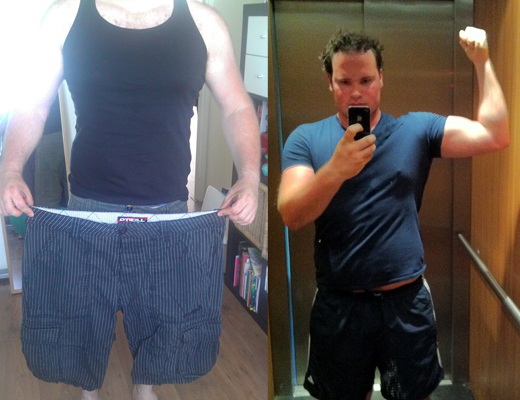
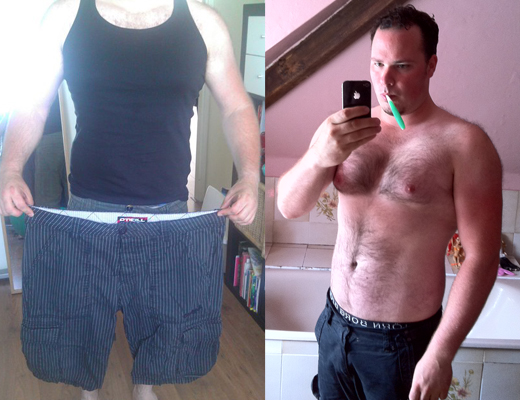
Fitness journal additions

diff --git a/about.html b/about.html
@@ -23,13 +23,17 @@ change_frequency: monthly
 <article>
 	<p>
 		As a senior web-developer at <a href="http://www.akqa.com" target="_blank" title="I work at AKQA">AKQA</a> 
-		I get to do awesome work for clients like Tommy Hilfiger, EA Sports, Nike, Mini, Philips and others.
+		I get to do awesome work for clients like Tommy Hilfiger, EA Sports, Nike, Mini and others.
 		My role is to create solid front-end architectures in which accessibility, speed and responsive design are of vital importance.
 		Check my <a href="http://www.github.com/timbenniks" target="_blank" title="My Github profile">Github</a> repos or my <a href="http://www.linkedin.com/in/timbenniks" target="_blank" title="My LinkedIn profile">LinkedIn</a> profile.
 	</p>
-	
+
+	<h2>Fitness</h2>
+	<p>In the last year I've completely changed my body. I used to be fat and unhealthy. Read more about my journey in my <a href="/fitness-journal/" title="This section of my website is about my journey into a more healthy lifestyle.">fitness journal</a>.</p>
+
+	<h2>Music</h2>
 	<p>
-		Next to being a geek I play guitar in a band called <a href="http://www.bluesmotel.nl" target="_blank" title="My band BluesMotel">BluesMotel</a>. 
+		I play guitar in a band called <a href="http://www.bluesmotel.nl" target="_blank" title="My band BluesMotel">BluesMotel</a>. 
 		At least once a week we play in a smoky pub somewhere in the Netherlands, the UK or France.
 	</p>
 	<p>
@@ -42,4 +46,5 @@ change_frequency: monthly
 		<img src="/static/gfx/tim.jpeg" alt="Tim Benniks recording the second BluesMotel album." />
 		<figcaption>Recording the second BluesMotel album.</figcaption>
 	</figure>
+
 </article>

diff --git a/fitness-journal.html b/fitness-journal.html
@@ -9,7 +9,7 @@ change_frequency: monthly
 ---
 
 <h1>My fitness journal</h1>
-<h2>This section of my website is about my journey into a more healthy lifestyle.</h2>
+<h2>This section is about my journey into a more healthy lifestyle.</h2>
 
 <div class="list">
 	{% for post in site.posts %}

diff --git a/_posts/2012-11-08-my-story.md b/_posts/2012-11-08-my-story.md
@@ -1,0 +1,78 @@
+---
+layout: post
+title: My fitness story
+description: From unhealthy and fat to happy and a little less chubby.
+keywords: fitness, progress, health, turning point
+kind: fitness
+permalink: /fitness-journal/my-story
+nav_url: /fitness-journal/
+published: true
+change_frequency: monthly
+metadata:
+- role: by
+  name: Tim Benniks
+---
+
+Aside from a short period in high school I have always been a chubby kid.
+When I still lived at home my mom used to make sure I didn't go overboard with food.
+She stopped me here and there when needed and always made sure we had delicious and healthy food on the table.
+
+After high school I started living on my own and became a lot more active as a musician. 
+I got used to a very burgundian lifestyle and started eating all kinds of junk. 
+The free drinks for musicians also didn't help.
+
+I have always been interested in muscles and posture but never had the discipline to change myself into something I liked. 
+I quickly turned into a lazy musician. Free drinks and fast food, either before or after a gig were the norm. 
+I didn't know any better and ate highly refined foods with a shitload of ingredients most peolple don't even understand.
+It was easy and fast.
+
+Being fat was always in the back of my head and it nagged at me. 
+When I reached 115kg I was in bad shape and I felt horrible.
+Always sweating, tired and out of breath. I had high blood pressure and was often sick.
+
+Even after this turning point I was still completely inadequate at sports and I didn't have any discipline.
+I didn't even know how to properly contract my muslces to lift something. No body sense at all.
+
+I asked my mate Chris to help me out. He was (is) a complete legend and instantly jumped at the chance to help a friend.
+We started doing his "half hour of power", lifted weights and ran as often as possible. 
+
+Well, I tried.
+
+I often had excuses. "But I had a gig last night" or "I'm still too sore from last week".
+I was such a pussy and it must have frustrated Chris. But he was strong and pulled me through.
+
+As I finally saw some results I overcame my disciplinary problems step by step. 
+I changed my diet and the weight went down quick. I even gained some muscle.
+
+I started researching and a whole world of [broscience](http://www.urbandictionary.com/define.php?term=broscience) opened up to me.
+I did programs like P90X, 5x5, and 4-hour body.
+
+The thing that helped me most was my Facebook posts. Everyday I posted my weight. People would respond if it went up or down and it kept me motivated. This was the first time in my life peer pressure actually had a positive influence on my state of mind.
+
+Currently I am training for a half marathon and I am trying to get my body fat percentage to ~10% by the end of the year.
+
+##Some progress pictures
+<figure>
+	<img src="/static/gfx/before_2010.jpg" alt="On stage in Amersfoort, September 2010, 114kg" />
+	<figcaption>On stage in Amersfoort, September 2010, 114kg</figcaption>
+</figure>
+
+<figure>
+	<img src="/static/gfx/kreta_2010.jpg" alt="My starting point. Oktober 2010, 115kg, 36% fat." width="520" />
+	<figcaption>My starting point. Oktober 2010, 115kg, 37% fat.</figcaption>
+</figure>
+
+<figure>
+	<img src="/static/gfx/march_2011.jpg" alt="Five months in. March 2011, 98kg, 22% fat." width="520" />
+	<figcaption>Five months in. March 2011, 98kg, 25% fat.</figcaption>
+</figure>
+
+<figure>
+	<img src="/static/gfx/france_june_2012.jpg" alt="France, June 2012, 92kg, 18% fat." width="520" />
+	<figcaption>France, June 2012, 92kg, 18% fat.</figcaption>
+</figure>
+
+<figure>
+	<img src="/static/gfx/oktober_2012.jpg" alt="October 2012, 89kg, 14% fat." width="520" />
+	<figcaption>October 2012, 89kg, 14% fat.</figcaption>
+</figure>

diff --git a/_posts/2012-09-30-about-this-journal.md b/_posts/2012-09-30-about-this-journal.md
@@ -1,7 +1,7 @@
 ---
 layout: post
 title: About this journal
-description: Why I am writing a journal about a more healthy lifestyle.
+description: Yet another blog about fitness?
 keywords: fitness, progress, health, turning point
 kind: fitness
 permalink: /fitness-journal/about-this-journal
@@ -13,27 +13,16 @@ metadata:
   name: Tim Benniks
 ---
 
-Aside from a short period in high school I have always been a chubby kid.
-When I still lived at home my mom used to make sure I didn't go overboard with food.
-She stopped me here and there when needed and always made sure we had delicious and healthy food on the table.
+>I can already hear my friends thinking: "Why the hell create a journal about fitness?
+>Haven't we seen enough of this guy's stuff on facebook and instagram yet?"
 
-After high school I started living on my own and became a lot more active as a musician. 
-I got used to a very burgundian lifestyle and started eating all kinds of junk. The free drinks for musicians also didn't help.
 
-I have always been interested in muscles and posture but never had the discipline to change myself into something I wanted to be. I quickly turned into a lazy musician. Free drinks and fast food either before or after a gig were the norm. I didn't know any better and ate highly refined foods that contain a shitload of ingredients I didn't understand. It was easy and fast.
+I don't care, I do it for <em>me</em>.
+This way I'm able to create a document full of valuable data to learn from in the future. 
+I love keeping track of meals, training data, progress pictures and most important of all: it keeps me motivated.
 
-Being fat was always in the back of my head and it nagged at me. When I reached 115kg (253lbs) I was in such bad shape that I felt horrible. Always sweating, tired and out of breath. I had high blood pressure and was often sick.
+Being a web-developer, an online journal is my way of creating content with some historical value. It's free, transparent and open for anybody to comment on. It's hopefully helpful for others and I might even inspire people to get healthy as well.
 
-Even after this turning point I was still completely inadequate at sports and I didn't have any discipline. I didn't even know how to properly contract my muslces to lift something. No body sense at all.
+Next to the occasional article about working out, new running shoes or meal planning, I'll be sharing recepies, progress pictures and workout data.
 
-I asked my mate Chris to help me out. He was (is) a complete legend and helped my out. He kicked my ass when needed and tought me about lifting weights, running, plyometrics and diet.
-
-<figure>
-	<img src="/static/gfx/before_2010.jpg" alt="Me on stage in Cafe Miles. August 2010" width="520" />
-	<figcaption>August 2010, 115kg</figcaption>
-</figure>
-
-<figure>
-	<img src="/static/gfx/march_2011.jpg" alt="Me on stage in Cafe Miles. August 2010" width="520" />
-	<figcaption>March 2011, 101kg</figcaption>
-</figure>
+Please feel free to read my first post: [My fitness story](/fitness-journal/my-story).

diff --git a/_posts/2012-09-27-accessibility.md b/_posts/2012-09-27-accessibility.md
@@ -6,7 +6,7 @@ keywords: Accessibility
 kind: blog
 permalink: /blog/a-pragmatic-approach-to-accessibility
 nav_url: /blog/
-published: true
+published: false
 change_frequency: monthly
 metadata:
 - role: by
